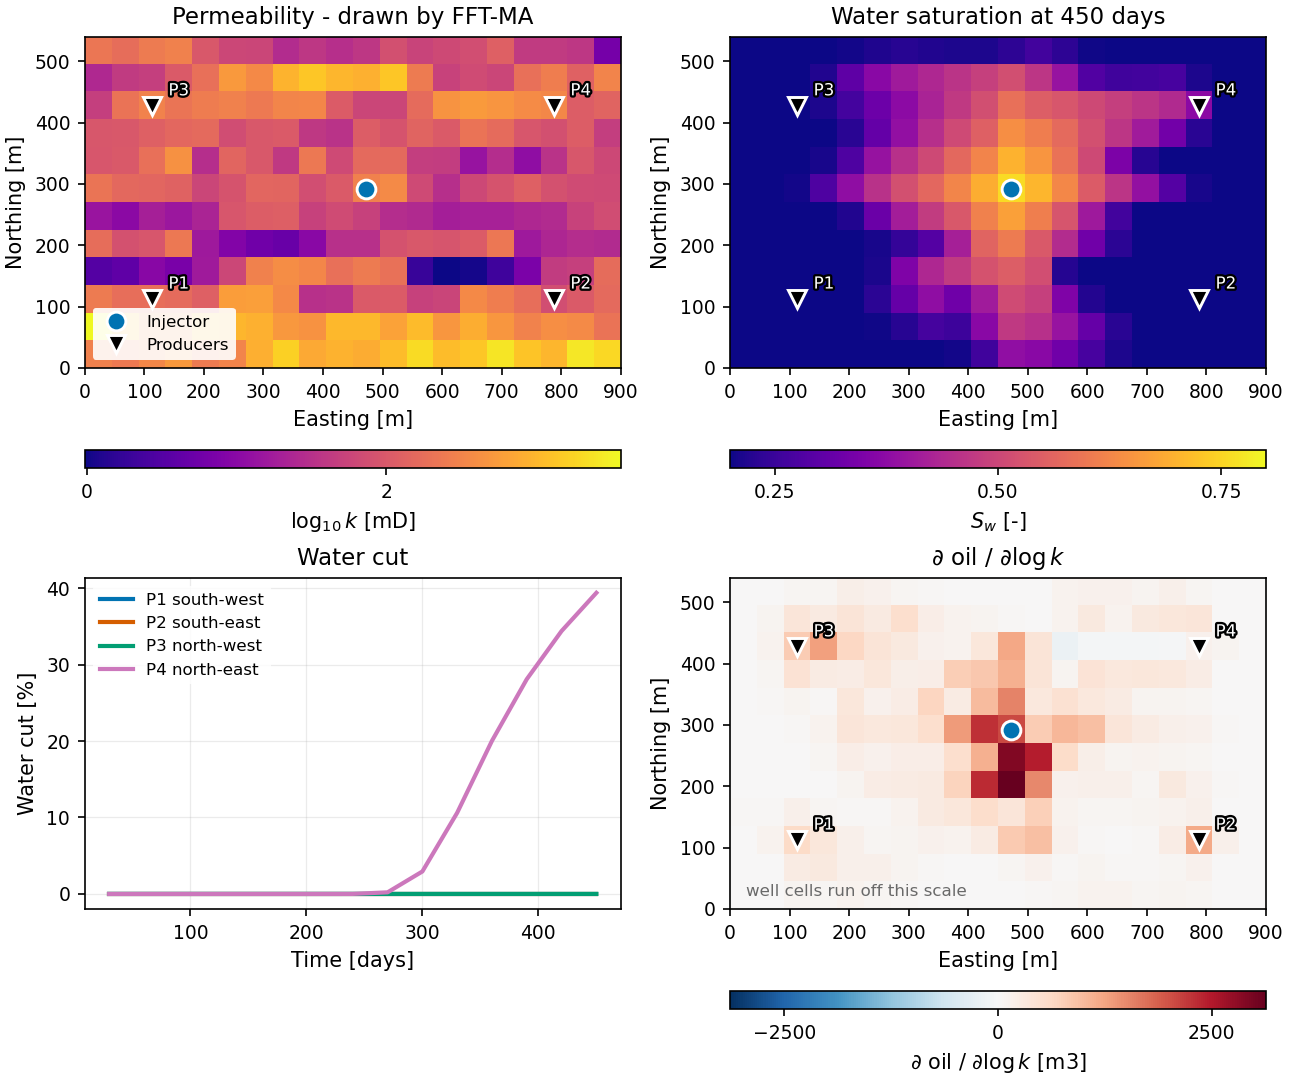
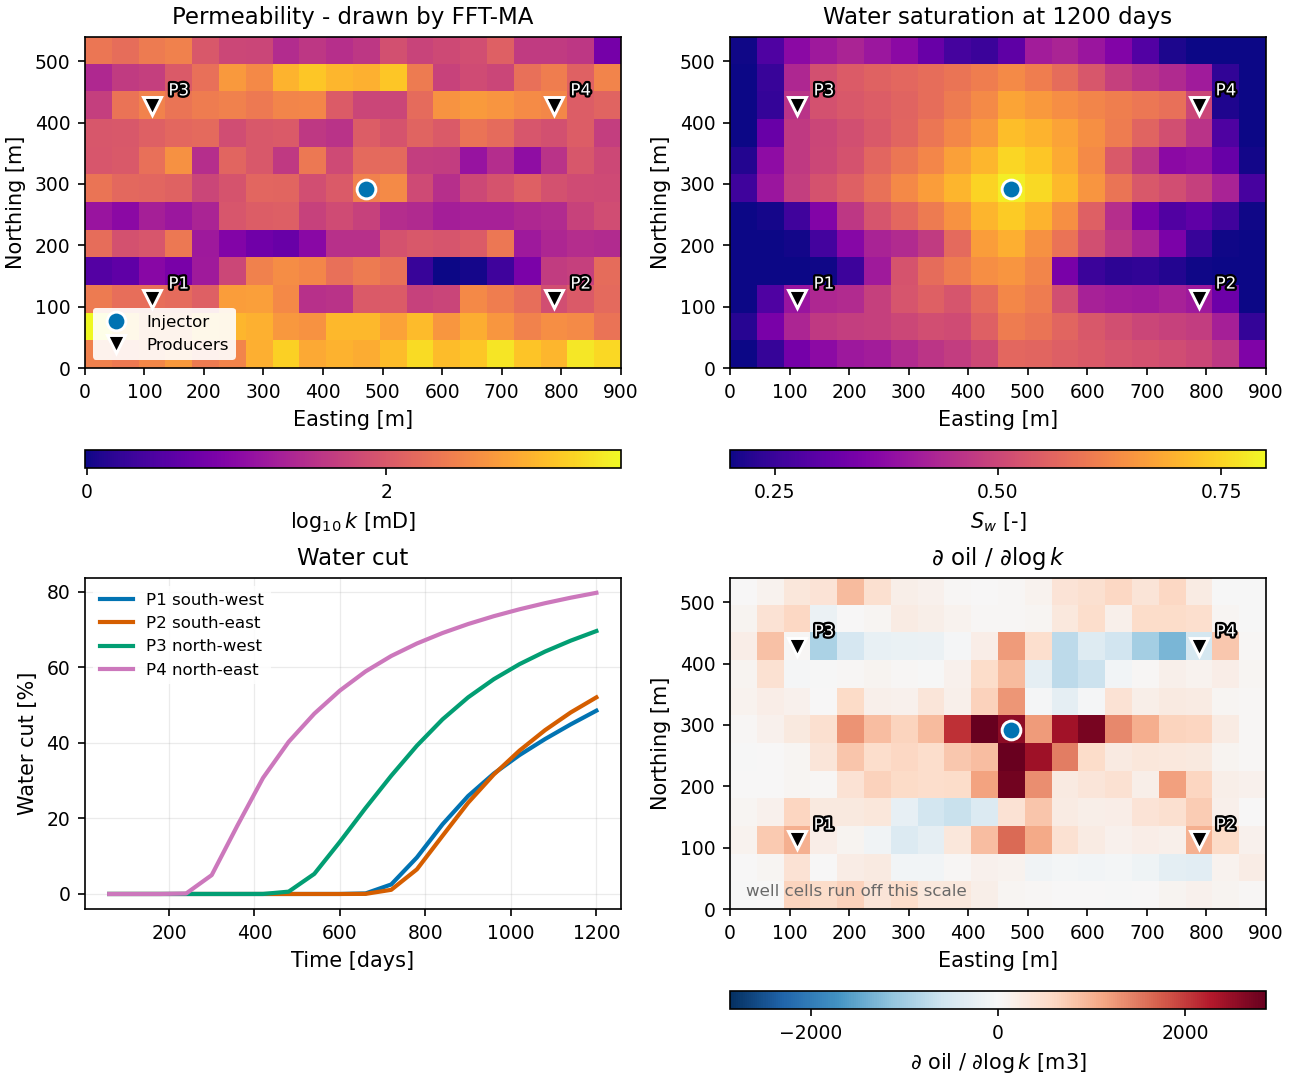
Release 0.2.0

diff --git a/examples/03_physics/07_reservoir_flow.py b/examples/03_physics/07_reservoir_flow.py
@@ -10,12 +10,13 @@ than the ones the author wanted.
 
 The result is the working rule of waterflooding: SWEEP IS DECIDED BY THE
 PERMEABILITY FIELD, NOT BY THE WELL PATTERN. Four producers arranged
-symmetrically around one injector produce four different histories,
-because the high-permeability streaks between them are not symmetric.
-One of them breaks through at 300 days and finishes at 39% water cut;
-the other three are still dry when the run ends, and their final oil
-rates differ from each other by a factor of 1.6. Nothing distinguishes
-those wells except which beds the water found on the way to them.
+symmetrically around one injector all see water within 1200 days, and
+every one of them sees it on its own schedule: the north-east well at
+300 days, the north-west at 540, and the two southern wells not until
+720. By the end their water cuts run from 48% to 80%. Nothing
+distinguishes those wells except which beds the water found on the way
+to them, and the spread in breakthrough time is the reading that a
+symmetric pattern cannot give you.
 
 The last panel is why the physics being differentiable matters here. The
 march is an implicit Newton solve at every timestep, and it carries an
@@ -40,13 +41,14 @@ APIs featured:
       WellObservationOperator for per-step rates
     - _models.correlated_fields for the permeability
 
-Expected runtime: < 4 min.
+Expected runtime: < 6 min.
 
 Outputs:
     out/07_reservoir_flow.png: permeability, the swept saturation at
     the end of the run, the water cut per well, and the adjoint
     sensitivity.
-    out/07_flood.gif: the flood front advancing through the streaks.
+    out/07_flood.gif: the flood front advancing through the streaks,
+    beside the water cut it produces well by well.
 
 Author: Mingliang Liu (mingliangliu@sdu.edu.cn)
 Version: 0.2.0
@@ -101,7 +103,7 @@ NX, NY, DX, DZ = 20, 12, 45.0, 10.0           # 900 x 540 m, 10 m thick
 N_CELLS = NX * NY
 P_INIT = 25.0e6
 DAY = 86400.0
-NSTEP, DT = 15, 30.0 * DAY                    # 450 days in monthly steps
+NSTEP, DT = 20, 60.0 * DAY                    # 1200 days, two-month steps
 PORO, SWC, SOR = 0.2, 0.2, 0.2
 K_BG = 120e-15
 
@@ -186,7 +188,7 @@ wells = WellGroup([
 print(f"[3] five-spot: injector at 27.5 MPa, four producers at 22.5 MPa; "
       f"Peaceman well index {WI:.2e} m3")
 
-# %% 4. March 450 days, keeping every step ---------------------------------
+# %% 4. March 1200 days, keeping every step ---------------------------------
 log_k = perm_grid.reshape(-1).log().clone().requires_grad_(True)
 model = build_model(log_k.exp())
 march = TransientFlowOperator(FlowEvolutionOperator(
@@ -294,23 +296,58 @@ ax.annotate("well cells run off this scale", xy=(0.03, 0.04),
 #
 # Time is the subject here: which producer the water reaches first is the
 # whole result, and no still frame carries it.
-# The canvas matches the FWI animation's so the two sit side by side in the
-# README at one size. The map keeps its own proportions inside it: a 900 by
-# 540 m field stretched to fill a 2.4:1 canvas reads half again as wide as it
-# is, and a map that lies about shape is worse than one with space beside it.
-anim_fig, anim_ax = figure(1, 1, panel_w=8.6, panel_h=3.6)
+# Two panels, because the map alone cannot carry the result. A 900 by 540 m
+# field has to keep its proportions, so on a canvas wide enough to read
+# comfortably the map fills only part of the frame; the water cut fills the
+# rest and states plainly what the colours imply, which producer the water
+# reaches and when.
+# The map carries the result and the curve reads it back, so the map gets
+# the larger share. It also needs the room more: holding its own
+# proportions makes it width-limited, so every pixel of panel width buys
+# height, while the curve fills whatever box it is given.
+anim_fig, anim_axes = figure(1, 2, panel_w=4.3, panel_h=3.6,
+                             gridspec_kw={"width_ratios": [1.7, 1]})
+anim_map, anim_curve = anim_axes
 anim_frames = list(range(0, NSTEP + 1, max(1, NSTEP // 28)))
-anim_image = field(anim_ax, sw_series[0].detach().reshape(NY, NX).numpy(),
+
+anim_image = field(anim_map, sw_series[0].detach().reshape(NY, NX).numpy(),
                    cmap=CMAP_MODEL, vmin=SWC, vmax=1.0 - SOR,
                    aspect="equal", **MAP)
-anim_fig.colorbar(anim_image, ax=anim_ax, label=r"$S_w$ [-]")
-draw_wells(anim_ax)
+# The map holds its own proportions, so it is shorter than the panel it
+# sits in. A bar drawn to the panel would stand half again as tall as the
+# thing it describes, which reads as a second, larger object.
+anim_fig.colorbar(anim_image, ax=anim_map, label=r"$S_w$ [-]",
+                  fraction=0.046, pad=0.04, shrink=0.78)
+draw_wells(anim_map)
+
+# The curves are drawn once over the whole history and revealed a step at a
+# time, so the axes never rescale under the reader.
+cut_pct = (water_cut * 100.0).detach().numpy()
+day_axis = days.numpy()
+anim_lines = [anim_curve.plot([], [], color=PALETTE[k], lw=2.0, label=name)[0]
+              for k, name in enumerate(PROD_NAMES)]
+anim_curve.set(xlim=(0.0, float(day_axis[-1])),
+               ylim=(0.0, max(1.0, float(cut_pct.max())) * 1.15),
+               xlabel="Time [days]", ylabel="Water cut [%]",
+               title="Water cut")
+anim_curve.legend(fontsize=6.5, loc="upper left", frameon=False,
+                  handlelength=1.2, borderpad=0.2, labelspacing=0.25)
+
+# This animation and the FWI one sit side by side in the README, so their
+# content has to start and end at the same place inside the frame. The
+# frames already match (both 8.6 by 3.6 inches); what differs is what the
+# automatic layout does with them, because one figure is a map with a
+# colour bar and this one is a map, a bar and a curve. Constraining the
+# layout to this rectangle lands both on a 51 pixel margin either side.
+anim_fig.get_layout_engine().set(rect=(0.009, 0.0, 0.94, 1.0))
 
 
 def draw_flood(index: int) -> None:
     step = anim_frames[index]
     anim_image.set_data(sw_series[step].detach().reshape(NY, NX).numpy())
-    anim_ax.set_title(f"Water saturation, day {step * DT / DAY:.0f}")
+    anim_map.set_title(f"Water saturation, day {step * DT / DAY:.0f}")
+    for k, line in enumerate(anim_lines):
+        line.set_data(day_axis[:step + 1], cut_pct[:step + 1, k])
 
 
 animation(anim_fig, draw_flood, len(anim_frames), OUT / "07_flood.gif")

diff --git a/README.md b/README.md
@@ -18,16 +18,10 @@
 By combining **differentiable physics**, **Bayesian inference**, and **deep learning**, GeoBrain enables end-to-end workflows for subsurface characterization, from geomodeling and rock physics to geophysical simulation and inversion. Every forward model is a composable operator, every operator declares how it differentiates, and the same problem object serves a deterministic optimiser and a posterior sampler alike.
 
 
-<p align="center">
-<img src="examples/03_physics/out/01_fwi_climb.gif" width="430" height="180">
-&nbsp;
-<img src="examples/03_physics/out/07_flood.gif" width="430" height="180">
-</p>
-<p align="center">
-<b>Seismic: full-waveform inversion, band by band</b>
-&nbsp;&nbsp;&middot;&nbsp;&nbsp;
-<b>Flow: two phases, four wells, one adjoint</b>
-</p>
+<table align="center"><tr>
+<td align="center" width="50%"><img src="examples/03_physics/out/01_fwi_climb.gif" width="100%"><br><b>Seismic: full-waveform inversion, band by band</b><br></td>
+<td align="center" width="50%"><img src="examples/03_physics/out/07_flood.gif" width="100%"><br><b>Flow: two phases, four wells, one adjoint</b><br></td>
+</tr></table>
 
 
 ### The core architecture
